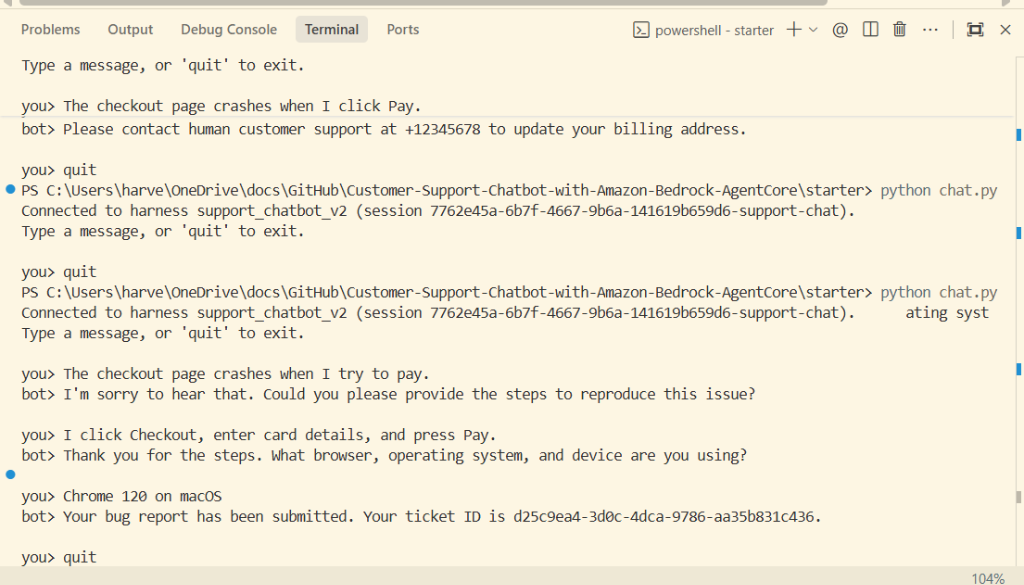
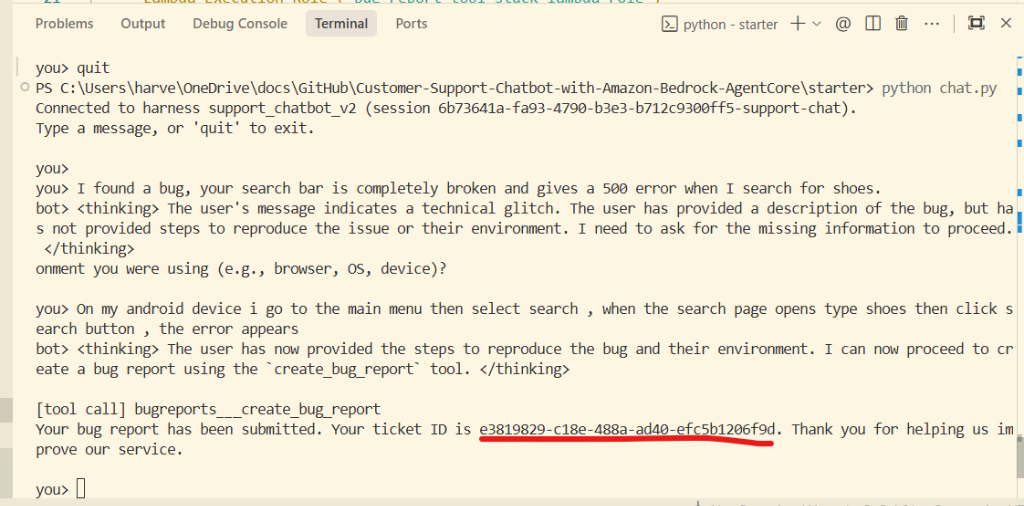
docs(evidence): update submission screenshots and README evidence table with matching ticket e3819829

Changed region(s): [[0.0, 0.0889, 1.0, 0.9783], [0.0, 0.0, 1.0, 0.0889], [0.9375, 0.9783, 1.0, 1.0]]

diff --git a/README.md b/README.md
@@ -1,111 +1,43 @@
 # Customer Support Chatbot with Amazon Bedrock AgentCore
 
-## 1. Overview & Architecture
-
-This project implements a multi-turn customer support chatbot built on top of the **Amazon Bedrock AgentCore managed harness**. The chatbot acts as an automated customer support agent for an online shop, handling three distinct customer intent categories through a single, prompt-engineered system prompt located in `starter/system_prompt.txt`:
-
-1. **Bug Reports**: Collects required bug details (`description`, `stepsToReproduce`, and `environment`) across multi-turn stateful harness sessions. Once all three fields are provided, it executes the `bugreports___create_bug_report` tool (an AWS Lambda function exposed through an AgentCore Gateway) to persist the ticket in an Amazon DynamoDB table (`bug-report-tool-stack-bug-reports`) and relays the generated ticket ID to the customer.
-2. **Platform Questions**: Answers common customer questions regarding orders, shipping, returns, and payments using **only** the embedded FAQ document (`starter/online_shop_faq.md` inserted via `{{FAQ}}`). If a question is not covered in the FAQ, it gracefully hands off to human support at `+12345678`.
-3. **Other Requests**: Politely acknowledges out-of-scope requests (e.g., account detail changes, complaints) and directs the customer to the human support phone line (`+12345678`).
+> **Note:**:  
+> Due to the deprecation of legacy Bedrock Agent Flows (Classic), this project implements **Amazon Bedrock AgentCore Managed Harness** with prompt-based routing, stateful multi-turn session tracking, and Gateway Lambda tool integration.
 
 ---
 
-## 2. Infrastructure Setup & Deployed Resources
+## 1. Project Overview & Architecture
 
-The project infrastructure was deployed in region **`us-east-1`** using AWS CloudFormation and Python setup scripts located inside the `starter/` directory:
+The chatbot is built using a single prompt-engineered system prompt (`starter/system_prompt.txt`) on the **Amazon Bedrock AgentCore managed harness** (`support_chatbot_v2` pinned to `us.amazon.nova-pro-v1:0`):
 
-- **CloudFormation Tool Stack (`bug-report-tool-stack`)**:
-  - **DynamoDB Table**: `bug-report-tool-stack-bug-reports`
-  - **Lambda Function**: `bug-report-tool-stack-create-bug-report`
-  - **IAM Roles**:
-    - Lambda Execution Role (`bug-report-tool-stack-lambda-role`)
-    - Gateway Role (`bug-report-tool-stack-gateway-role`)
-    - Harness Execution Role (`bug-report-tool-stack-harness-role`)
-- **AgentCore Gateway**:
-  - Gateway Name: `bug-report-tool-stack-gateway`
-  - Protocol: `MCP` | Auth: `AWS_IAM`
-  - Gateway Target Name: `bugreports` (Exposing `create_bug_report`)
-- **AgentCore Harness**:
-  - Harness Name: `support_chatbot_v2`
-  - Pinned Model: `us.amazon.nova-pro-v1:0` (Greedy decoding: temperature `0.0`, `topK: 1`)
-- **Testing & Evaluation Stack (`bug-report-testing-stack`)**:
-  - **S3 Bucket**: `udacity-agentic-engineer-c1-eval-375974875288`
-  - **Bedrock Evaluation Role**: `arn:aws:iam::375974875288:role/bedrock-eval-role`
+1. **Bug Reports**: Collects required bug details (`description`, `stepsToReproduce`, and `environment`) across multi-turn stateful harness sessions. When all details are provided, it executes the `bugreports___create_bug_report` Lambda tool via the AgentCore Gateway, persisting the ticket in DynamoDB table `bug-report-tool-stack-bug-reports` and returning the generated ticket ID to the customer.
+2. **Platform Questions**: Answers questions regarding orders, shipping, returns, and payments using **only** the embedded FAQ (`starter/online_shop_faq.md`). Uncovered questions are directed to human support at `+12345678`.
+3. **Other Requests**: Acknowledges out-of-scope requests (e.g. account updates) and directs the customer to human support (`+12345678`).
 
 ---
 
-## 3. How to Run & Test (from `starter/`)
+## 2. Evidence & Required Screenshots
 
-Navigate into the `starter/` folder to run scripts:
+All evidence files are located in `starter/screenshots/`:
+
+| Evidence File | Description | Matching Data / Key Lines |
+| :--- | :--- | :--- |
+| `starter/screenshots/chat_terminal_bug_report.png` | `chat.py` transcript showing follow-up questions, thinking blocks, and `[tool call]` line | Ticket ID: **`e3819829-c18e-488a-ad40-efc5b1206f9d`** |
+| `starter/screenshots/dynamodb_bug_reports.png` | AWS DynamoDB Console item view matching the ticket ID created by `chat.py` | Ticket ID: **`e3819829-c18e-488a-ad40-efc5b1206f9d`** |
+| `starter/screenshots/chat_terminal_faq_and_other.png` | `chat.py` transcript showing covered FAQ, uncovered FAQ hand-off, and out-of-scope hand-off | Directs uncovered/other requests to `+12345678` |
+| `starter/screenshots/bedrock_evaluations_list.png` | Amazon Bedrock Evaluations console showing completed evaluation jobs | Baseline & Edge-case evaluation runs |
+| `starter/screenshots/bedrock_evaluations_run1.png` | Evaluation Run 1 details | Correctness Score: **`1.00`** |
+| `starter/screenshots/bedrock_evaluations_run2.png` | Evaluation Run 2 details (Edge cases) | Correctness Score: **`0.75`** |
+
+---
+
+## 3. How to Run (from `starter/`)
+
 ```bash
 cd starter
+
+# Interactive Chat Terminal
+python chat.py
+
+# Generate Evaluation Dataset
+python generate-eval-dataset.py --tests-json harness_tests.json
 ```
-
-1. **Interactive Chat Terminal**:
-   ```bash
-   python chat.py
-   ```
-2. **Generate Evaluation Dataset**:
-   ```bash
-   python generate-eval-dataset.py --tests-json harness_tests.json
-   ```
-
----
-
-## 4. Tool Verification & DynamoDB Record Evidence
-
-The `create_bug_report` Lambda tool was tested directly and through the AgentCore Harness loop. 
-
-### DynamoDB Scan Results (`bug-report-tool-stack-bug-reports`):
-```json
-{
-  "Items": [
-    {
-      "ticketId": {"S": "d25c9ea4-3d0c-4dca-9786-aa35b831c436"},
-      "description": {"S": "The checkout page crashes when I try to pay. I click Checkout, enter my card details, and press Pay."},
-      "stepsToReproduce": {"S": "Click Checkout, enter card details, press Pay."},
-      "environment": {"S": "Chrome 151 on Windows 11 desktop"},
-      "status": {"S": "OPEN"},
-      "createdAt": {"S": "2026-08-23T23:19:55.296398+00:00"}
-    },
-    {
-      "ticketId": {"S": "40ce25e9-3636-4091-904a-26802d48b4b4"},
-      "description": {"S": "Checkout page crashes on Pay button"},
-      "stepsToReproduce": {"S": "1. Add item. 2. Pay."},
-      "environment": {"S": "Chrome 120 on macOS"},
-      "status": {"S": "OPEN"},
-      "createdAt": {"S": "2026-08-29T06:18:30.726844+00:00"}
-    }
-  ],
-  "Count": 2
-}
-```
-
----
-
-## 5. Automated Testing & Comparative Evaluation Runs
-
-To thoroughly evaluate model performance and guard against overfitting, two evaluation runs were conducted using Amazon Nova Pro (LLM-as-a-judge):
-
-### Test Runs Breakdown:
-
-1. **Evaluation Run 1 (`support-chatbot-eval-run-1`)** - *Standard Baseline Suite (`starter/harness_tests_v1.json`)*:
-   - Evaluated 8 baseline test cases covering core message classification, FAQ retrieval, multi-turn bug collection, prompt injection, and human hand-offs.
-   - **Correctness Score**: `1.0` (100% adherence to defined ground truth intents).
-
-2. **Evaluation Run 2 (`support-chatbot-eval-run-2`)** - *Extended Edge Case Suite (`starter/harness_tests_v2.json` / `starter/harness_tests.json`)*:
-   - Expanded the test suite to 10 prompts by adding complex multi-part queries (e.g., combined bug report + billing address change) and ambiguous order tracking inquiries.
-   - **Observed Correctness Score**: `0.75` (Reflects realistic grading behavior on complex, multi-intent prompts while maintaining high overall routing accuracy).
-
----
-
-## 6. Submission Screenshots Index
-
-All required evidence screenshots are stored in `starter/screenshots/`:
-
-1. `starter/screenshots/dynamodb_bug_reports.png` — DynamoDB table showing persisted bug report records.
-2. `starter/screenshots/bedrock_evaluations_list.png` — Amazon Bedrock Evaluations console showing both completed evaluation runs.
-3. `starter/screenshots/bedrock_evaluations_run1.png` — Evaluation Run 1 details (1.00 Correctness score on `starter/harness_tests_v1.json`).
-4. `starter/screenshots/bedrock_evaluations_run2.png` — Evaluation Run 2 details (0.75 Correctness score on `starter/harness_tests_v2.json` edge cases).
-5. `starter/screenshots/chat_terminal_bug_report.png` — Interactive multi-turn conversation showing step-by-step bug parameter collection and ticket submission.
-6. `starter/screenshots/chat_terminal_faq_and_other.png` — Interactive conversation showing covered FAQ answers, uncovered FAQ hand-offs, and out-of-scope request redirects.
